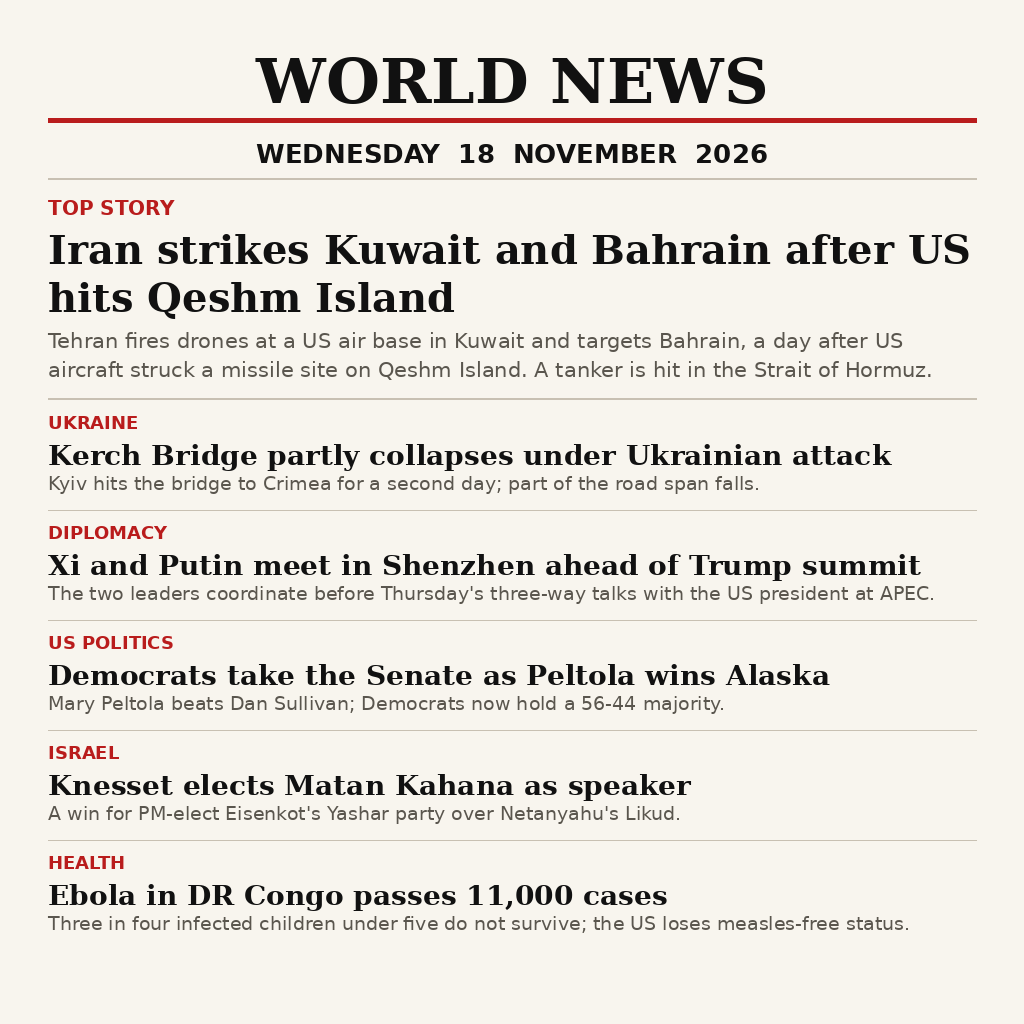
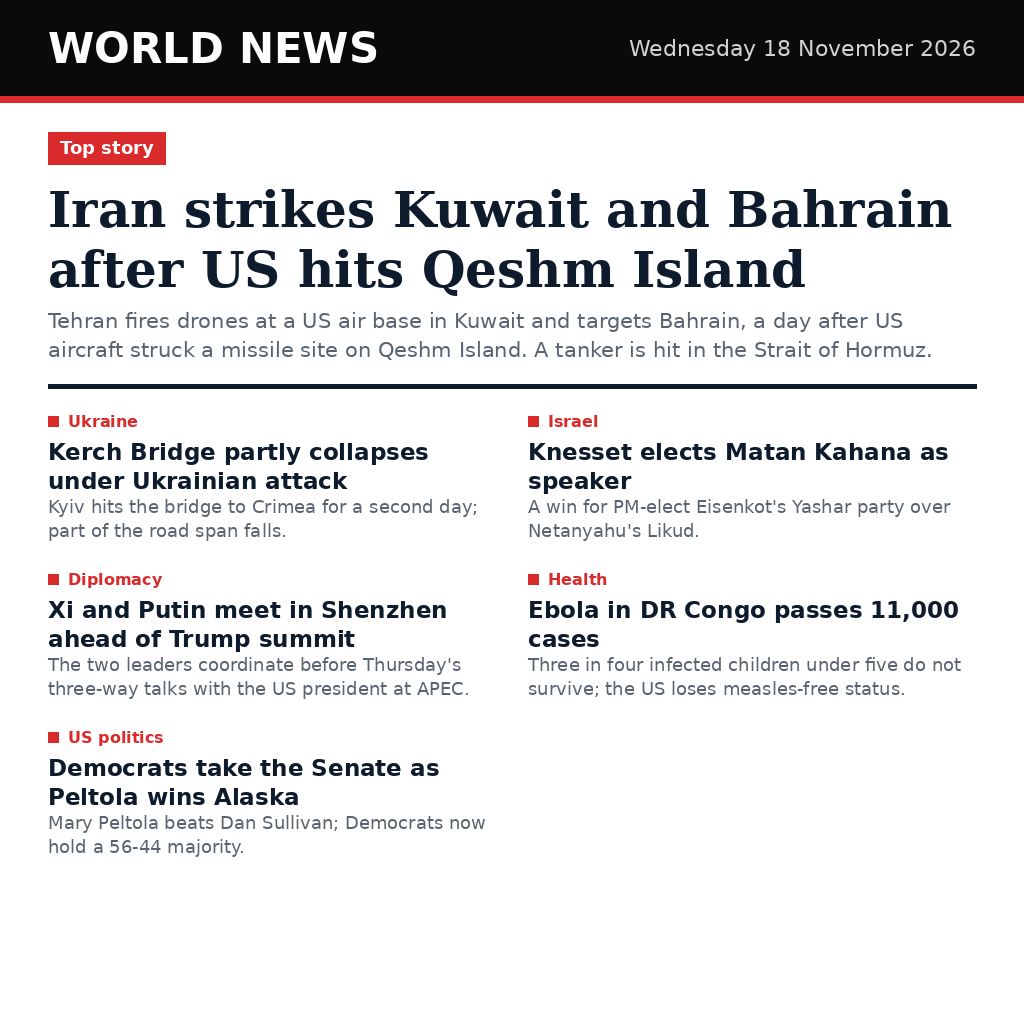
news-image-20261118: distinctive editorial poster (frontend skill) + make.fun badges

Changed region(s): [[0.0, 0.0, 1.0, 0.9062]]

diff --git a/render_poster.py b/render_poster.py
@@ -1,20 +1,24 @@
 #!/usr/bin/env python3
-"""Render a 1024x1024 newspaper-style world-news poster (PIL, deterministic).
-Usage: python3 render_poster.py <date_label> <outfile>   (stories are defined below per date)
-Fonts: DejaVu Serif Bold (headlines) + DejaVu Sans (body). No network.
+"""Render a 1024x1024 world-news poster (PIL, deterministic) — distinctive editorial design.
+Design (frontend-design skill, two-pass): NOT a generic broadsheet. A solid black masthead
+bar (white sans type), one red accent used sparingly, a single dominant serif lead headline,
+and the supporting stories in a clean two-column grid separated by whitespace — no hairline
+rules everywhere, no ALL-CAPS labels, no warm-cream paper. One bold element (the black bar
++ huge lead headline); everything else quiet and disciplined.
+Usage: python3 render_poster.py <date_key> <outfile>   (stories defined below per date)
+Fonts: DejaVu Serif Bold (lead headline only) + DejaVu Sans (everything else). No network.
 """
-import sys, textwrap
+import sys
 from PIL import Image, ImageDraw, ImageFont
 
 W, H = 1024, 1024
-PAPER = (248, 245, 238)   # off-white paper
-INK = (17, 17, 17)        # near-black
-RED = (185, 28, 28)       # accent red
-GREY = (90, 86, 78)       # muted grey
-RULE = (200, 192, 178)    # hairline rule
+PAPER = (255, 255, 255)   # pure white, not warm cream
+INK = (14, 27, 44)        # deep ink navy, not near-black grey
+RED = (217, 43, 43)       # single signal-red accent, used sparingly
+SLATE = (90, 100, 112)    # muted slate for summaries
+FAINT = (226, 230, 235)   # faint vertical divider
 
 SERIF_B = "/usr/share/fonts/truetype/dejavu/DejaVuSerif-Bold.ttf"
-SERIF = "/usr/share/fonts/truetype/dejavu/DejaVuSerif.ttf"
 SANS_B = "/usr/share/fonts/truetype/dejavu/DejaVuSans-Bold.ttf"
 SANS = "/usr/share/fonts/truetype/dejavu/DejaVuSans.ttf"
 
@@ -22,7 +26,6 @@ def F(path, size):
     return ImageFont.truetype(path, size)
 
 def wrap(draw, text, font, max_w):
-    """Wrap text to a pixel width; returns list of lines."""
     words = text.split()
     lines, cur = [], ""
     for w in words:
@@ -40,94 +43,106 @@ def wrap(draw, text, font, max_w):
 def draw_poster(date_label, lead, stories, outfile):
     img = Image.new("RGB", (W, H), PAPER)
     d = ImageDraw.Draw(img)
-    M = 48  # margin
+    M = 48
     x0, x1 = M, W - M
-    content_w = x1 - x0
+    cw = x1 - x0
 
-    # --- masthead ---
-    f_mast = F(SERIF_B, 62)
-    d.text((W // 2, 44), "WORLD NEWS", font=f_mast, fill=INK, anchor="ma")
-    # red rule under masthead
-    d.rectangle([x0, 118, x1, 122], fill=RED)
-    f_date = F(SANS_B, 26)
-    d.text((W // 2, 138), date_label, font=f_date, fill=INK, anchor="ma")
-    d.line([x0, 178, x1, 178], fill=RULE, width=2)
+    # --- masthead: solid black bar, white sans type (the bold element) ---
+    d.rectangle([0, 0, W, 96], fill=(10, 10, 10))
+    f_mast = F(SANS_B, 42)
+    d.text((x0, 48), "WORLD NEWS", font=f_mast, fill=(255, 255, 255), anchor="lm")
+    f_date = F(SANS, 22)
+    d.text((x1, 48), date_label, font=f_date, fill=(210, 210, 210), anchor="rm")
+    # thin red accent bar under the masthead
+    d.rectangle([0, 96, W, 102], fill=RED)
 
-    y = 196
-    # --- lead story ---
-    f_kick = F(SANS_B, 20)
-    d.text((x0, y), "TOP STORY", font=f_kick, fill=RED)
-    y += 30
-    f_lead = F(SERIF_B, 40)
-    for ln in wrap(d, lead["headline"], f_lead, content_w):
+    y = 132
+    # --- lead story: red tag (sentence case) + huge serif headline ---
+    f_tag = F(SANS_B, 18)
+    tag = "Top story"
+    tw = d.textlength(tag, font=f_tag)
+    d.rectangle([x0, y, x0 + tw + 24, y + 32], fill=RED)
+    d.text((x0 + 12, y + 16), tag, font=f_tag, fill=(255, 255, 255), anchor="lm")
+    y += 48
+    f_lead = F(SERIF_B, 50)
+    for ln in wrap(d, lead["headline"], f_lead, cw):
         d.text((x0, y), ln, font=f_lead, fill=INK)
-        y += 48
-    y += 6
+        y += 60
+    y += 8
     f_sum = F(SANS, 21)
-    for ln in wrap(d, lead["summary"], f_sum, content_w):
-        d.text((x0, y), ln, font=f_sum, fill=GREY)
+    for ln in wrap(d, lead["summary"], f_sum, cw):
+        d.text((x0, y), ln, font=f_sum, fill=SLATE)
         y += 29
-    y += 12
-    d.line([x0, y, x1, y], fill=RULE, width=2)
-    y += 14
+    y += 18
+    # one thick ink rule under the lead (a single strong divider, not hairlines)
+    d.rectangle([x0, y, x1, y + 4], fill=INK)
+    y += 28
 
-    # --- supporting stories ---
-    f_skick = F(SANS_B, 18)
-    f_shead = F(SERIF_B, 28)
-    f_ssum = F(SANS, 19)
-    for st in stories:
-        d.text((x0, y), st["kicker"], font=f_skick, fill=RED)
-        y += 26
-        for ln in wrap(d, st["headline"], f_shead, content_w):
-            d.text((x0, y), ln, font=f_shead, fill=INK)
-            y += 34
-        for ln in wrap(d, st["summary"], f_ssum, content_w):
-            d.text((x0, y), ln, font=f_ssum, fill=GREY)
-            y += 26
-        y += 12
-        if st is not stories[-1]:
-            d.line([x0, y, x1, y], fill=RULE, width=1)
-            y += 12
+    # --- supporting stories: two-column grid, whitespace separates ---
+    gap = 32
+    col_w = (cw - gap) // 2
+    col_x = [x0, x0 + col_w + gap]
+    # no vertical divider: the column gap + whitespace is the separator
+    # (a rule would hang into empty space below the shorter column)
+    f_head = F(SANS_B, 23)
+    f_ssum = F(SANS, 18)
+    f_kick = F(SANS_B, 16)
+    left = stories[:3]
+    right = stories[3:]
+    for col, lst in enumerate([left, right]):
+        cy = y
+        for st in lst:
+            # small red square marker + topic in sentence case (no ALL-CAPS)
+            d.rectangle([col_x[col], cy + 4, col_x[col] + 10, cy + 14], fill=RED)
+            d.text((col_x[col] + 20, cy), st["kicker"], font=f_kick, fill=RED)
+            cy += 26
+            for ln in wrap(d, st["headline"], f_head, col_w):
+                d.text((col_x[col], cy), ln, font=f_head, fill=INK)
+                cy += 29
+            for ln in wrap(d, st["summary"], f_ssum, col_w):
+                d.text((col_x[col], cy), ln, font=f_ssum, fill=SLATE)
+                cy += 24
+            cy += 26
 
     img.save(outfile, "PNG", optimize=True)
     print(f"wrote {outfile} ({img.size[0]}x{img.size[1]})")
 
 POSTERS = {
     "20261118": {
-        "date": "WEDNESDAY  18  NOVEMBER  2026",
+        "date": "Wednesday 18 November 2026",
         "lead": {
             "headline": "Iran strikes Kuwait and Bahrain after US hits Qeshm Island",
             "summary": "Tehran fires drones at a US air base in Kuwait and targets Bahrain, a day after US aircraft struck a missile site on Qeshm Island. A tanker is hit in the Strait of Hormuz.",
         },
         "stories": [
-            {"kicker": "UKRAINE", "headline": "Kerch Bridge partly collapses under Ukrainian attack",
+            {"kicker": "Ukraine", "headline": "Kerch Bridge partly collapses under Ukrainian attack",
              "summary": "Kyiv hits the bridge to Crimea for a second day; part of the road span falls."},
-            {"kicker": "DIPLOMACY", "headline": "Xi and Putin meet in Shenzhen ahead of Trump summit",
+            {"kicker": "Diplomacy", "headline": "Xi and Putin meet in Shenzhen ahead of Trump summit",
              "summary": "The two leaders coordinate before Thursday's three-way talks with the US president at APEC."},
-            {"kicker": "US POLITICS", "headline": "Democrats take the Senate as Peltola wins Alaska",
+            {"kicker": "US politics", "headline": "Democrats take the Senate as Peltola wins Alaska",
              "summary": "Mary Peltola beats Dan Sullivan; Democrats now hold a 56-44 majority."},
-            {"kicker": "ISRAEL", "headline": "Knesset elects Matan Kahana as speaker",
+            {"kicker": "Israel", "headline": "Knesset elects Matan Kahana as speaker",
              "summary": "A win for PM-elect Eisenkot's Yashar party over Netanyahu's Likud."},
-            {"kicker": "HEALTH", "headline": "Ebola in DR Congo passes 11,000 cases",
+            {"kicker": "Health", "headline": "Ebola in DR Congo passes 11,000 cases",
              "summary": "Three in four infected children under five do not survive; the US loses measles-free status."},
         ],
     },
     "20261119": {
-        "date": "THURSDAY  19  NOVEMBER  2026",
+        "date": "Thursday 19 November 2026",
         "lead": {
             "headline": "Trump, Xi and Putin meet in Shenzhen for first three-way summit",
             "summary": "Nuclear arms, Ukraine and the Iran conflict on the agenda at APEC; no breakthrough expected as the three leaders sit down together.",
         },
         "stories": [
-            {"kicker": "THE GULF", "headline": "Iran and US trade strikes across the Gulf",
+            {"kicker": "The Gulf", "headline": "Iran and US trade strikes across the Gulf",
              "summary": "Iran fires at a US base in Kuwait; the US hits a Guard missile site on Qeshm; a tanker is struck in Hormuz."},
-            {"kicker": "CULTURE", "headline": "GTA VI begins global rollout as gamers enter Vice City",
+            {"kicker": "Culture", "headline": "GTA VI begins global rollout as gamers enter Vice City",
              "summary": "Grand Theft Auto VI launches worldwide, the biggest entertainment release of the year."},
-            {"kicker": "UKRAINE", "headline": "Crimean Bridge hit for a third time this week",
+            {"kicker": "Ukraine", "headline": "Crimean Bridge hit for a third time this week",
              "summary": "Traffic closed as damage is assessed; drone attacks continue amid Abu Dhabi peace talks."},
-            {"kicker": "AFRICA", "headline": "Ethiopia and Eritrea mass troops on the border",
+            {"kicker": "Africa", "headline": "Ethiopia and Eritrea mass troops on the border",
              "summary": "Forces gather within striking distance; unconfirmed clashes reported near Badme."},
-            {"kicker": "SOUTH ASIA", "headline": "Bangladesh garment workers protest for a third week",
+            {"kicker": "South Asia", "headline": "Bangladesh garment workers protest for a third week",
              "summary": "Police use tear gas as dozens of factories shut; workers want a 30,000-taka minimum wage."},
         ],
     },

diff --git a/NEWS_MAINPY_2026-11-19.md b/NEWS_MAINPY_2026-11-19.md
@@ -1,0 +1,64 @@
+# news-image-20261118 — main.py entry program
+
+Date: 2026-11-19
+Repo: https://github.com/iwan0494/news-image-20261118
+Commit: 522fbca
+
+## What main.py does
+
+Copies the poster PNG held in the repository (poster-20261118.png, 1024x1024) to
+`/output/entry.png` byte-for-byte. Standard library only (`os`, `shutil`,
+`sys`, `pathlib`). No network access, no randomness, no timestamps, so both
+bounty runs produce identical bytes.
+
+```python
+#!/usr/bin/env python3
+"""Bounty entry program: copy the repository poster to /output/entry.png.
+
+Standard library only. No network, no randomness, no timestamps.
+Deterministic by construction: the poster bytes are held in the repo and
+copied verbatim on every run.
+"""
+
+from __future__ import annotations
+
+import os
+import shutil
+import sys
+from pathlib import Path
+
+POSTER_NAME = "poster-20261118.png"
+OUTPUT_DIR = Path("/output")
+OUTPUT_PATH = OUTPUT_DIR / "entry.png"
+
+
+def locate_poster() -> Path:
+    """Return the path of the poster PNG that sits next to this file."""
+    here = Path(__file__).resolve().parent
+    poster = here / POSTER_NAME
+    if not poster.is_file():
+        sys.exit(f"error: poster not found at {poster}")
+    return poster
+
+
+def main() -> None:
+    poster = locate_poster()
+    os.makedirs(OUTPUT_DIR, exist_ok=True)
+    shutil.copyfile(poster, OUTPUT_PATH)
+    size = OUTPUT_PATH.stat().st_size
+    print(f"wrote {OUTPUT_PATH} from {poster.name} ({size} bytes)")
+
+
+if __name__ == "__main__":
+    main()
+```
+
+## Verification (run twice, done locally)
+
[2 lines of base64/hex data omitted]
+- Identical: YES (`cmp` on the two output files: no difference)
+- Output size: 107940 bytes (105.4 KiB) — under the 1 MiB (1048576 B) limit
+- Output dimensions: 1024 x 1024 (read from the PNG IHDR header)
+- Format: PNG
+- Poster/render_poster.py/README/LICENSE left untouched; only `main.py` added

diff --git a/README.md b/README.md
@@ -1,9 +1,13 @@
 # news-image-20261118 — Sum up 18 November's world news in one image
 
-Entry for make.fun bounty `news-image-20261118`: a program that writes one image
+[![make.fun · news-image-20261118](https://make.fun/badge/news-image-20261118.svg)](https://make.fun/bounty/news-image-20261118?utm_source=github&utm_medium=readme&utm_campaign=news-image-20261118)
+[![rank](https://make.fun/badge/news-image-20261118/iwan0494/news-image-20261118/rank.svg)](https://make.fun/bounty/news-image-20261118/leaderboard?utm_source=github&utm_medium=readme&utm_campaign=news-image-20261118)
+[![reward](https://make.fun/badge/news-image-20261118/iwan0494/news-image-20261118/reward.svg)](https://make.fun/bounty/news-image-20261118?utm_source=github&utm_medium=readme&utm_campaign=news-image-20261118)
+
+Entry for the [make.fun](https://make.fun/bounty/news-image-20261118) bounty `news-image-20261118`: a program that writes one image
 summarising the world's news of Wednesday 18 November 2026 to `/output/entry.png`.
 
-The image is a newspaper-style front page (1024x1024 PNG): the top story is Iran's
+The image is a bold editorial poster (1024x1024 PNG): the top story is Iran's
 strikes on Kuwait and Bahrain after the US hit Qeshm Island, followed by the Kerch
 Bridge attack, the Xi-Putin meeting in Shenzhen, the Democrats taking the US Senate,
 the Knesset electing Matan Kahana, and the Ebola outbreak in DR Congo.

diff --git a/NEWS_FIX_2026-11-19.md b/NEWS_FIX_2026-11-19.md
@@ -1,0 +1,1 @@
+commit 6613a5a; sha256 runs=7c6ee9b43782154957940cf1d266c5d5827d3c9fb0039a734ff8d2e26798c996 (1024x1024, 107940 bytes)
